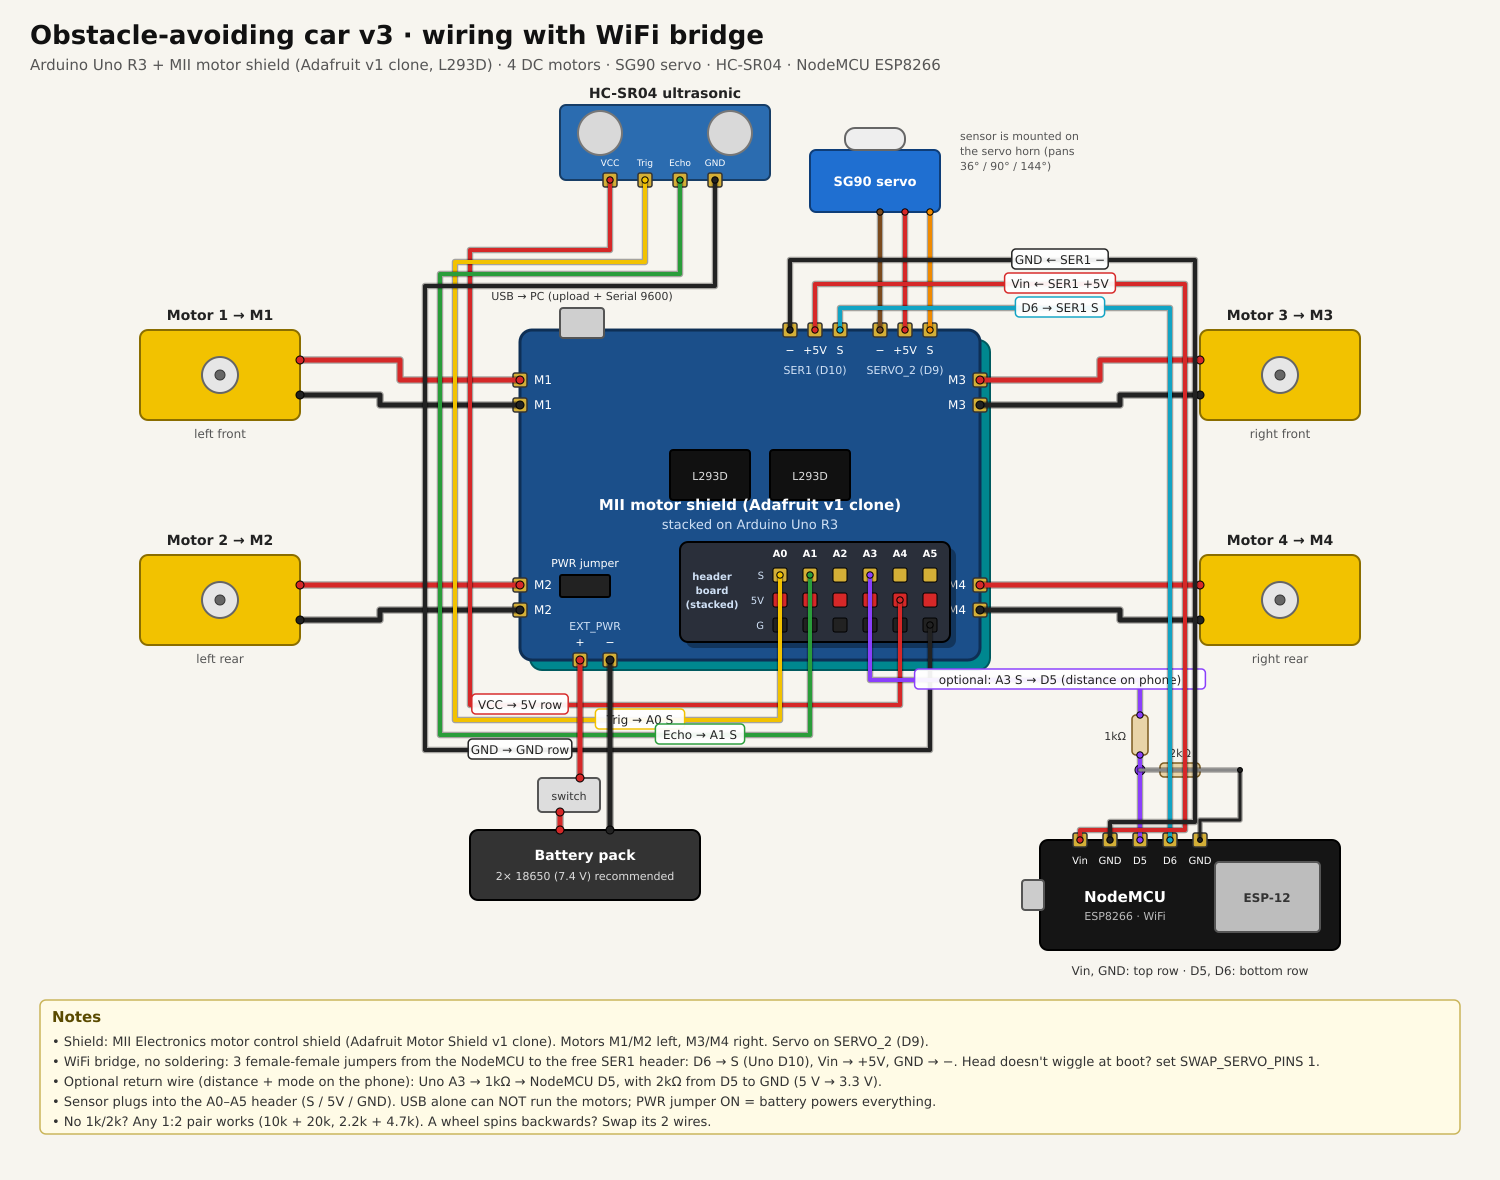
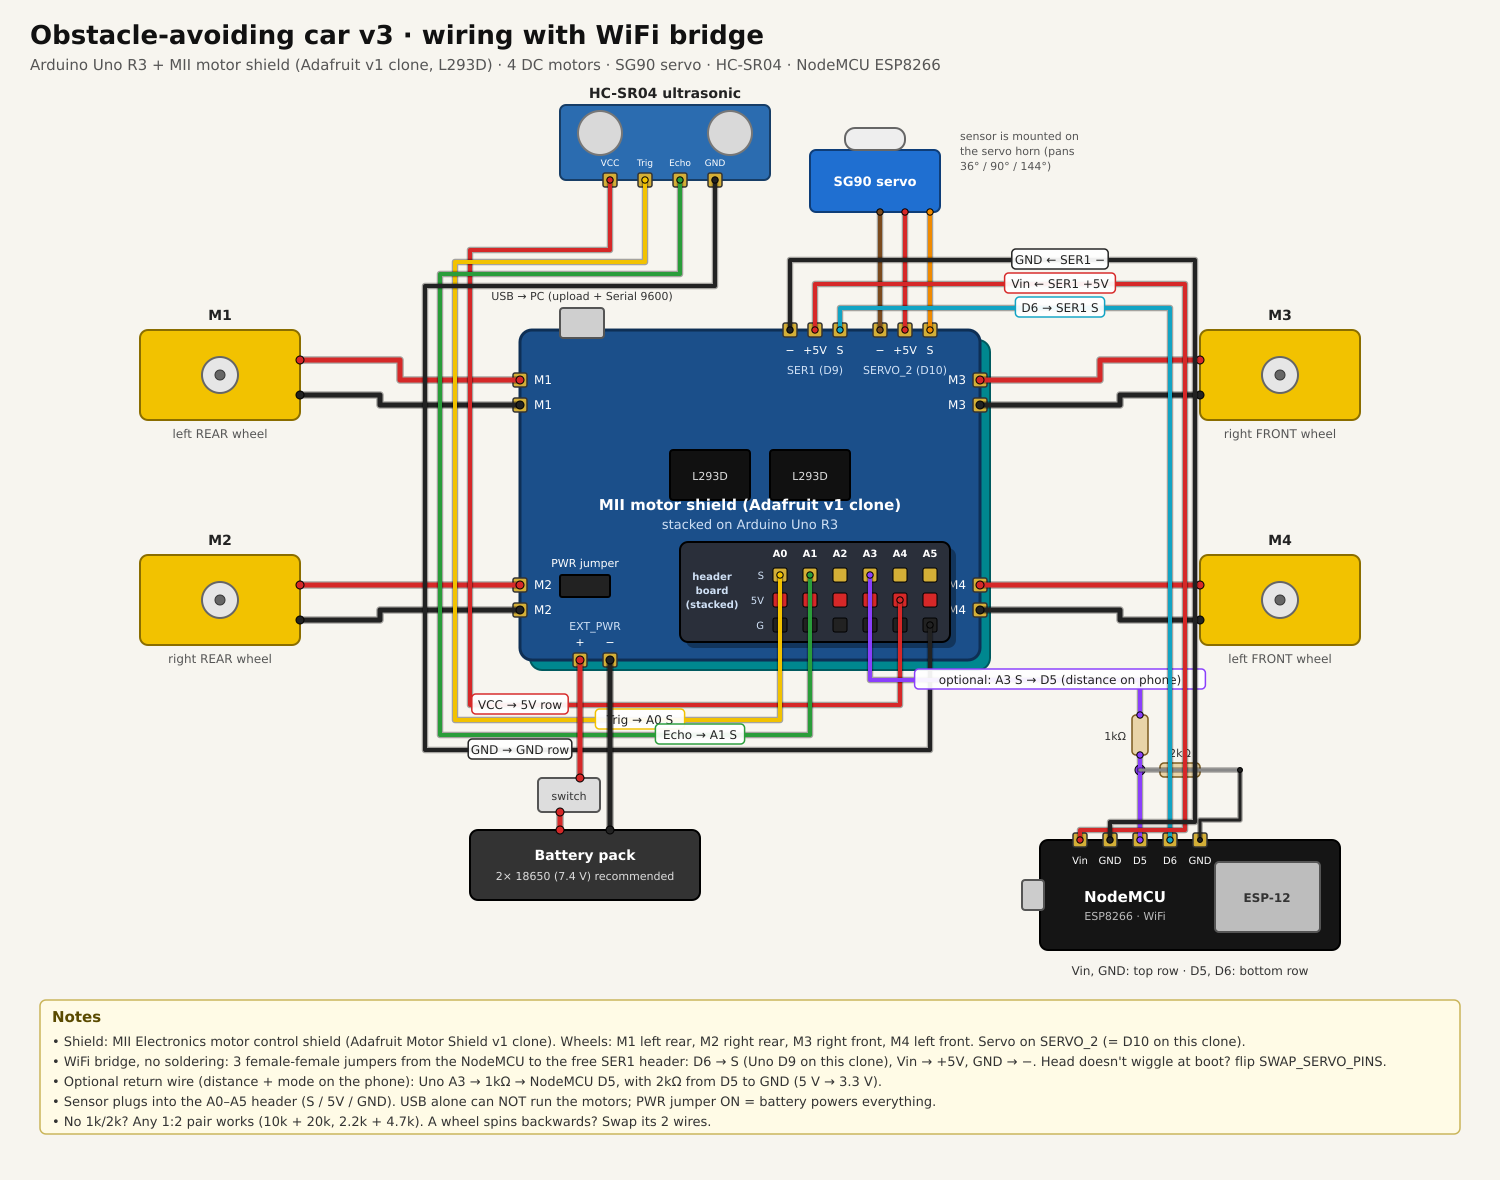
Fix wheel layout (left = M1+M4, right = M2+M3) and servo pins on this clone (servo D10, bridge D9) (#5)
- motor_test sketch to map wheels to terminals
- v2 and v3 use the real wheel layout so turns work (front and rear were fighting)
- v3 defaults SWAP_SERVO_PINS 1
- diagrams + README updated

Claude-Session: https://claude.ai/code/session_015okV5xhpTSJ7BsUHd5BTGs

diff --git a/docs/src/gen_car_wifi.py b/docs/src/gen_car_wifi.py
@@ -39,10 +39,10 @@ for lab, y in (("M3", 380), ("M3", 405), ("M4", 585), ("M4", 610)):
 # servo header (top edge): GND, +5V, signal (D10)
 for lab, x in (("−", 880), ("+5V", 905), ("S", 930)):
     edge_pin(x, Y0, lab, "top")
-s.text(905, Y0 + 44, "SERVO_2 (D9)", 11, "#cfe0f5", "middle")
+s.text(905, Y0 + 44, "SERVO_2 (D10)", 11, "#cfe0f5", "middle")
 for lab, x in (("−", 790), ("+5V", 815), ("S", 840)):
     edge_pin(x, Y0, lab, "top")
-s.text(815, Y0 + 44, "SER1 (D10)", 11, "#cfe0f5", "middle")
+s.text(815, Y0 + 44, "SER1 (D9)", 11, "#cfe0f5", "middle")
 # A0-A5 3-row header on the shield (signal / 5V / GND), servo-style: sensor plugs in with female jumpers
 COLS = {f"A{i}": 780 + i * 30 for i in range(6)}
 HS, H5, HG = 575, 600, 625
@@ -70,10 +70,10 @@ def motor(x, y, name, sub):
     s.text(x + 80, y - 10, name, 14, "#222", "middle", "bold")
     s.text(x + 80, y + 108, sub, 12, "#555", "middle")
 
-motor(140, 330, "Motor 1 → M1", "left front")
-motor(140, 555, "Motor 2 → M2", "left rear")
-motor(1200, 330, "Motor 3 → M3", "right front")
-motor(1200, 555, "Motor 4 → M4", "right rear")
+motor(140, 330, "M1", "left REAR wheel")
+motor(140, 555, "M2", "right REAR wheel")
+motor(1200, 330, "M3", "right FRONT wheel")
+motor(1200, 555, "M4", "left FRONT wheel")
 
 s.wire([(300, 360), (400, 360), (400, 380), (X0, 380)], "red")
 s.wire([(300, 395), (380, 395), (380, 405), (X0, 405)], "black")
@@ -155,8 +155,8 @@ s.wire([(NP["Vin"], NY), (NP["Vin"], 830), (1185, 830), (1185, 284), (815, 284),
 s.wire([(NP["GND"], NY), (NP["GND"], 822), (1195, 822), (1195, 260), (790, 260), (790, Y0)], "black", 4, "GND ← SER1 −", (1060, 260))
 
 s.legend_box(40, 1000, 1420, [
-    "• Shield: MII Electronics motor control shield (Adafruit Motor Shield v1 clone). Motors M1/M2 left, M3/M4 right. Servo on SERVO_2 (D9).",
-    "• WiFi bridge, no soldering: 3 female-female jumpers from the NodeMCU to the free SER1 header: D6 → S (Uno D10), Vin → +5V, GND → −. Head doesn't wiggle at boot? set SWAP_SERVO_PINS 1.",
+    "• Shield: MII Electronics motor control shield (Adafruit Motor Shield v1 clone). Wheels: M1 left rear, M2 right rear, M3 right front, M4 left front. Servo on SERVO_2 (= D10 on this clone).",
+    "• WiFi bridge, no soldering: 3 female-female jumpers from the NodeMCU to the free SER1 header: D6 → S (Uno D9 on this clone), Vin → +5V, GND → −. Head doesn't wiggle at boot? flip SWAP_SERVO_PINS.",
     "• Optional return wire (distance + mode on the phone): Uno A3 → 1kΩ → NodeMCU D5, with 2kΩ from D5 to GND (5 V → 3.3 V).",
     "• Sensor plugs into the A0–A5 header (S / 5V / GND). USB alone can NOT run the motors; PWR jumper ON = battery powers everything.",
     "• No 1k/2k? Any 1:2 pair works (10k + 20k, 2.2k + 4.7k). A wheel spins backwards? Swap its 2 wires.",

diff --git a/docs/src/gen_car.py b/docs/src/gen_car.py
@@ -39,7 +39,7 @@ for lab, y in (("M3", 380), ("M3", 405), ("M4", 585), ("M4", 610)):
 # servo header (top edge): GND, +5V, signal (D10)
 for lab, x in (("−", 880), ("+5V", 905), ("S", 930)):
     edge_pin(x, Y0, lab, "top")
-s.text(905, Y0 + 44, "SERVO_1 (D10)", 11, "#cfe0f5", "middle")
+s.text(905, Y0 + 44, "servo header (D10)", 11, "#cfe0f5", "middle")
 # A0-A5 3-row header on the shield (signal / 5V / GND), servo-style: sensor plugs in with female jumpers
 COLS = {f"A{i}": 780 + i * 30 for i in range(6)}
 HS, H5, HG = 575, 600, 625
@@ -67,10 +67,10 @@ def motor(x, y, name, sub):
     s.text(x + 80, y - 10, name, 14, "#222", "middle", "bold")
     s.text(x + 80, y + 108, sub, 12, "#555", "middle")
 
-motor(140, 330, "Motor 1 → M1", "left front")
-motor(140, 555, "Motor 2 → M2", "left rear")
-motor(1200, 330, "Motor 3 → M3", "right front")
-motor(1200, 555, "Motor 4 → M4", "right rear")
+motor(140, 330, "M1", "left REAR wheel")
+motor(140, 555, "M2", "right REAR wheel")
+motor(1200, 330, "M3", "right FRONT wheel")
+motor(1200, 555, "M4", "left FRONT wheel")
 
 s.wire([(300, 360), (400, 360), (400, 380), (X0, 380)], "red")
 s.wire([(300, 395), (380, 395), (380, 405), (X0, 405)], "black")
@@ -122,7 +122,7 @@ s.text(569, 800, "switch", 11, "#333", "middle")
 s.wire([(610, 830), (610, Y0 + BH)], "black", 5)
 
 s.legend_box(1020, 700, 450, [
-    "• Motor pins from code: M1/M2 = left side, M3/M4 = right side.",
+    "• Wheels: M1 left rear, M2 right rear, M3 right front, M4 left front (left = M1+M4, right = M2+M3).",
     "• Sensor plugs into the stacked A0–A5 header board (S/5V/GND).",
     "• Sensor: Trig A0, Echo A1 (NewPing). Servo on SERVO_1 = D10.",
     "• USB alone can NOT run the motors (brown-out / freeze).",

diff --git a/README.md b/README.md
@@ -10,8 +10,8 @@
 |---|---|
 | Arduino Uno R3 (genuine, VID 2341 / PID 0043) | Board: **Arduino Uno** in the IDE (not Mega) |
 | MII Electronics "motor control shield for Arduino" (Adafruit Motor Shield v1 clone, 2× L293D) | Stacked on the Uno. Has 2 servo headers (SERVO_1 = D10, SERVO_2 = D9) |
-| 4× TT DC gear motors + wheels | M1/M2 = left, M3/M4 = right |
-| SG90 micro servo | `SERVO_1` header = pin D10 |
+| 4× TT DC gear motors + wheels | M1 left rear, M2 right rear, M3 right front, M4 left front (left side = M1+M4, right side = M2+M3). Check yours with `motor_test/` |
+| SG90 micro servo | Plugged into the header labeled SERVO_2, which is **pin D10** on this clone |
 | HC-SR04 ultrasonic sensor | Mounted on the servo horn. Trig A0, Echo A1 |
 | Small A0–A5 header board, stacked on the shield (S / 5V / GND rows, servo-style) | The sensor plugs in with female jumper wires, so there's no soldering. |
 | NodeMCU ESP8266 (ESP-12E, CP2102 USB) | v3 WiFi bridge, on the free SER1 servo header. Windows needs the Silicon Labs CP210x driver to see its COM port. |
@@ -21,11 +21,11 @@
 
 | From | To |
 |---|---|
-| Motor 1 (left front) | M1 |
-| Motor 2 (left rear) | M2 |
-| Motor 3 (right front) | M3 |
-| Motor 4 (right rear) | M4 |
-| Servo brown / red / orange | SERVO_1 − / +5V / S (D10) |
+| Left **rear** wheel | M1 |
+| Right **rear** wheel | M2 |
+| Right **front** wheel | M3 |
+| Left **front** wheel | M4 |
+| Servo brown / red / orange | servo header − / +5V / S (D10) |
 | HC-SR04 VCC | header **5V** row |
 | HC-SR04 Trig | header **A0 S** |
 | HC-SR04 Echo | header **A1 S** |
@@ -84,17 +84,15 @@ Two sketches:
 - `esp8266_bridge/` goes on the **NodeMCU**. It handles WiFi setup, the phone web page, and over-the-air updates.
 
 ### Extra wiring (no soldering)
-The servo is on the **SERVO_2** header. The NodeMCU uses the free **SER1** header next to it, with 3 female-to-female jumpers:
+The servo is plugged into the header labeled **SERVO_2**, and the NodeMCU uses the free **SER1** header next to it. On this clone the labels don't match the usual pins: **SERVO_2 = D10, SER1 = D9** (`SWAP_SERVO_PINS 1`).
 
 | NodeMCU | SER1 header |
 |---|---|
-| **D6** (bottom row) | **S** |
+| **D6 / GPIO12** (bottom row) | **S** (Uno D9) |
 | **Vin** (top row) | **+** (5 V) |
 | **GND** (top row) | **−** |
 
-**Check the servo pin:** on power-up the sensor head wiggles left and right, and the Serial Monitor prints `Servo on D9, WiFi bridge on D10`.
-- If the head **doesn't move**, this shield has the two headers' pins swapped. Set `SWAP_SERVO_PINS 1` at the top of `obstacle_car_v3_wifi.ino` and upload again.
-- The standard layout for this shield design is SERVO_2 = D9, SER1 = D10.
+**Check the servo pin:** on power-up the sensor head wiggles left and right, and the Serial Monitor (9600) prints `Servo on D10, WiFi bridge on D9`. If the head doesn't move, flip `SWAP_SERVO_PINS` and upload again.
 
 **Optional return wire** (shows distance and mode on the phone): Uno **A3** → **1 kΩ** → NodeMCU **D5**, plus **2 kΩ** from D5 to GND. Without it, driving works and the page shows "connected · no feedback wire".
 
@@ -137,6 +135,8 @@ The servo is on the **SERVO_2** header. The NodeMCU uses the free **SER1** heade
 | Serial prints one line, then freezes or resets | Motors running on USB power → brown-out. Connect the battery, or use manual mode at the PC. |
 | Upload fails | Board set to Mega. Choose **Arduino Uno**. |
 | One wheel spins backwards | Swap that motor's 2 wires on its M terminal. |
+| Car won't turn, front and rear wheels fight | Motor terminals aren't left/right pairs. Run `motor_test/` and fix the 4 `AF_DCMotor` lines (this car: left = M1+M4, right = M2+M3). |
+| Servo doesn't move / phone commands ignored | Servo and bridge pins swapped. Flip `SWAP_SERVO_PINS`. |
 | Car over- or under-turns | Adjust `TURN_MS`. |
 | Stops for no reason | Sensor angled down at the floor, or loose Trig/Echo wires. |
 
